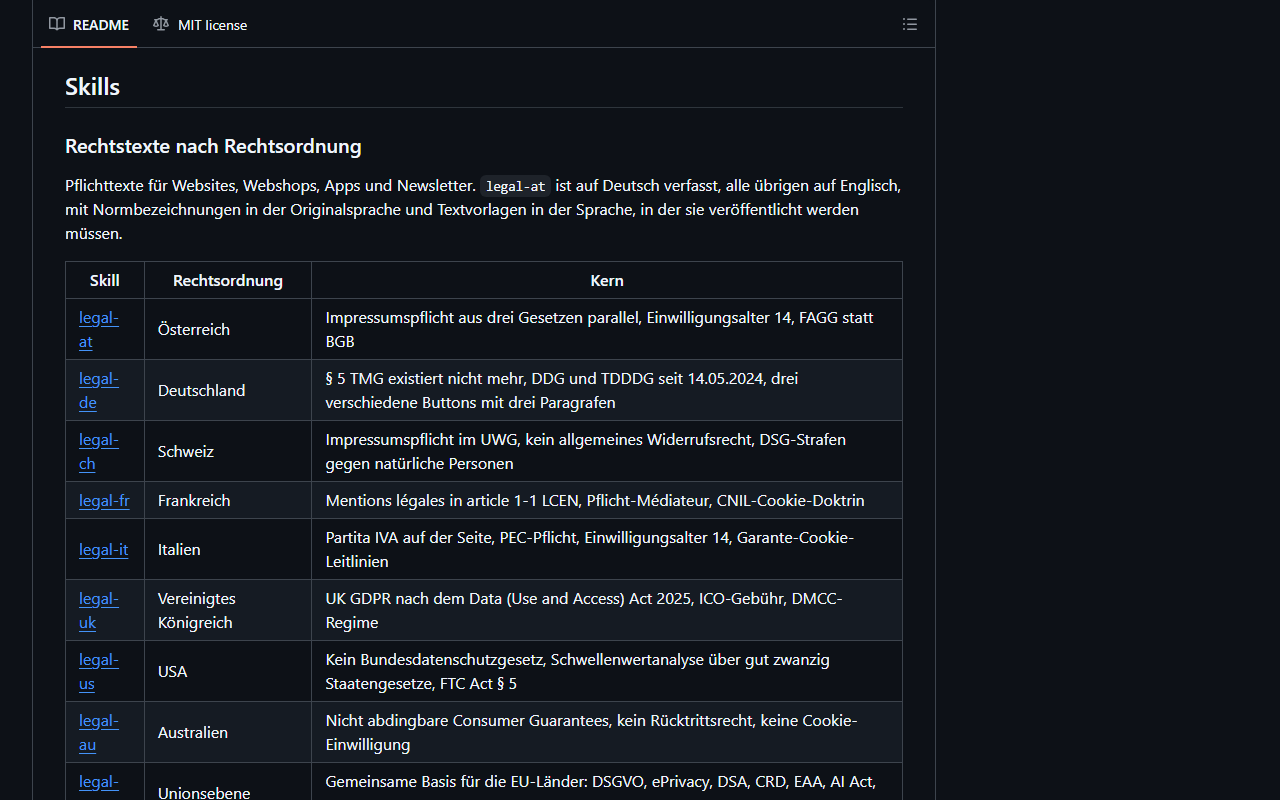
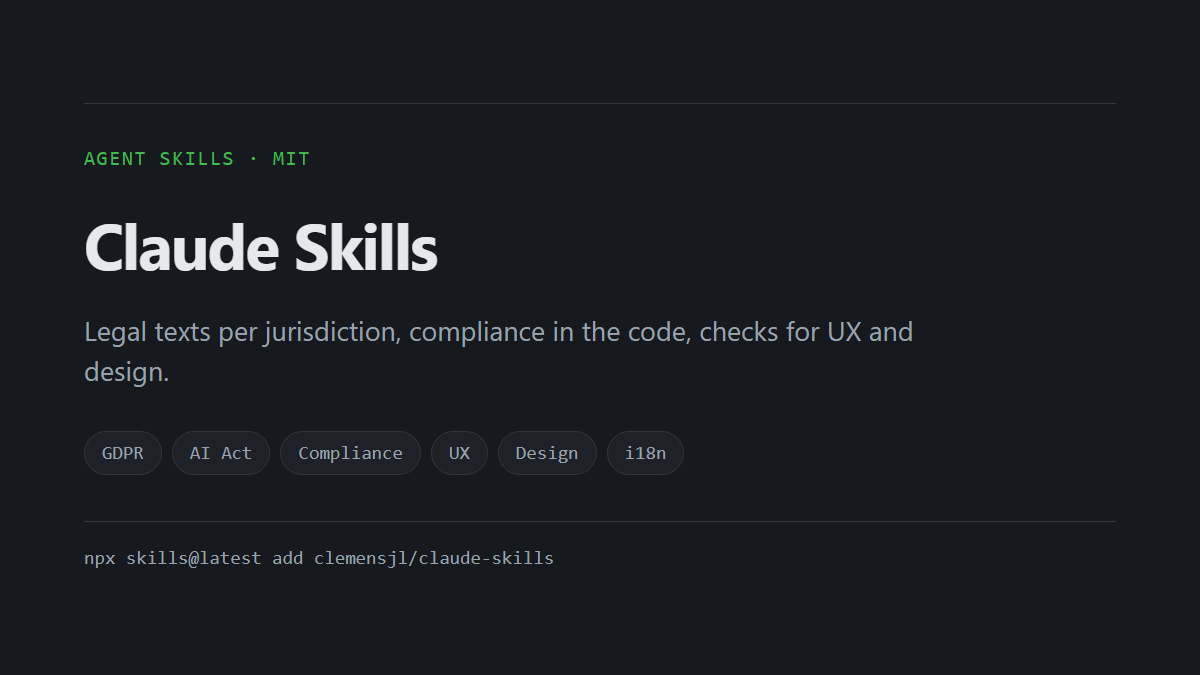
content: Claude Skills nicht mehr nur Rechtstexte
Titel, Zusammenfassung, Text, Cover, Skills- und About-Abschnitt nennen jetzt auch Produktqualität (UX, Design). 19 statt 17 Skills.

diff --git a/src/data/skills.ts b/src/data/skills.ts
@@ -32,8 +32,8 @@ export const withAi: Record<Lang, Capability[]> = {
     },
     {
       title: 'Agent Skills und Anweisungen schreiben',
-      text: 'Wiederverwendbare Skills, die einem Agenten Fachwissen und feste Regeln mitgeben, etwa für Rechtstexte nach österreichischem Recht.',
-      proof: 'Agent Skills für Rechtstexte',
+      text: 'Wiederverwendbare Skills, die einem Agenten Fachwissen und feste Regeln mitgeben, etwa für Rechtstexte je Rechtsordnung oder für UX-Prüfungen vor dem Release.',
+      proof: 'Claude Skills',
     },
     {
       title: 'KI in Produkte einbauen',
@@ -64,8 +64,8 @@ export const withAi: Record<Lang, Capability[]> = {
     },
     {
       title: 'Writing agent skills and instructions',
-      text: 'Reusable skills that give an agent domain knowledge and fixed rules, for example for legal texts under Austrian law.',
-      proof: 'Agent Skills for Legal Texts',
+      text: 'Reusable skills that give an agent domain knowledge and fixed rules, for example for legal texts per jurisdiction or UX checks before a release.',
+      proof: 'Claude Skills',
     },
     {
       title: 'Building AI into products',

diff --git a/src/content/projects/de/claude-skills.md b/src/content/projects/de/claude-skills.md
@@ -1,6 +1,6 @@
 ---
-title: Agent Skills für Rechtstexte
-summary: "17 Agent Skills für Claude Code, Cursor und Codex: Impressum, Datenschutz und Compliance nach Rechtsordnung statt aus US-Vorlagen."
+title: Claude Skills
+summary: "19 Agent Skills für Claude Code, Cursor und Codex: Rechtstexte je Rechtsordnung, Compliance in der Umsetzung und Prüfungen für UX und Design."
 stack: ["Agent Skills", "Markdown"]
 repo: https://github.com/clemensjl/claude-skills
 image: /images/projects/claude-skills.png
@@ -9,10 +9,12 @@ order: 8
 featured: false
 ---
 
-Fragt man ein Sprachmodell nach einem Impressum, bekommt man zuverlässig deutsches oder US-Recht: Paragrafen, die in Österreich nicht gelten, und Formulierungen, die schlicht falsch sind. Diese Skill-Sammlung stellt das um: Für jede Rechtsordnung eigene Regeln, mit den tatsächlich geltenden Paragrafen.
+Agent Skills geben einem Coding-Agenten Fachwissen und feste Regeln mit, die er sonst nicht hat. Die Sammlung deckt zwei Bereiche ab: Recht und Compliance, wo Sprachmodelle zuverlässig deutsches oder US-Recht ausgeben, und Produktqualität, wo sie zuverlässig nach Template aussehen.
 
-Neun `legal-*`-Skills decken Impressum, Datenschutzerklärung und AGB für Österreich, Deutschland, die Schweiz, Frankreich, Italien, Großbritannien, die USA, Australien und die EU-Ebene ab. Dazu kommen vier Skills für die technische Umsetzung (Cookie-Consent, Vendor-Prüfung, Löschfristen, AI-Act) sowie drei zu E-Rechnung, österreichischem Steuerrecht und Lokalisierung. Neu ist ein Skill, der Apps und Websites auf fehlende UX-Details prüft, bevor sie veröffentlicht werden.
+Neun `legal-*`-Skills schreiben Impressum, Datenschutzerklärung und AGB für Österreich, Deutschland, die Schweiz, Frankreich, Italien, Großbritannien, die USA, Australien und die EU-Ebene, mit den Paragrafen, die dort tatsächlich gelten. Vier weitere übernehmen die technische Umsetzung (Cookie-Consent, Vendor-Prüfung, Löschfristen, AI Act), drei kümmern sich um E-Rechnung, österreichisches Steuerrecht und korrekte Lokalisierung von Namen, Adressen und Zahlen.
 
-Die Inhalte sind gegen Primärquellen geprüft, nicht aus dem Modellgedächtnis geschrieben. Wo eine Angabe nicht belegt werden konnte, setzt der Skill einen sichtbaren Marker in den Entwurf, statt zu raten; jeder erzeugte Text trägt den Hinweis, dass er keine Rechtsberatung ersetzt.
+Drei Skills drehen sich um Produktqualität: ein Regelwerk für Bedienbarkeit, Formulare, Barrierefreiheit, Checkout und Kündigung mit Verbotsliste für Dark Patterns, ein Audit auf fehlende UX-Details vor dem Release und ein Skill, der KI-generierte Oberflächen entslopt.
 
-Installation über `npx skills@latest add clemensjl/claude-skills`, MIT-lizenziert.
+Die rechtlichen Inhalte sind gegen Primärquellen geprüft, nicht aus dem Modellgedächtnis geschrieben. Wo eine Angabe nicht belegt werden konnte, setzt der Skill einen sichtbaren Marker, statt zu raten; jeder erzeugte Text trägt den Hinweis, dass er keine Rechtsberatung ersetzt.
+
+Installation über `npx skills@latest add clemensjl/claude-skills`, MIT-lizenziert, `design-unslop` unter CC BY 4.0.

diff --git a/src/content/projects/en/claude-skills.md b/src/content/projects/en/claude-skills.md
@@ -1,6 +1,6 @@
 ---
-title: Agent Skills for Legal Texts
-summary: "17 agent skills for Claude Code, Cursor and Codex: legal notice, privacy policy and compliance written for each jurisdiction instead of copied from US templates."
+title: Claude Skills
+summary: "19 agent skills for Claude Code, Cursor and Codex: legal texts for each jurisdiction, compliance in the code and checks for UX and design."
 stack: ["Agent Skills", "Markdown"]
 repo: https://github.com/clemensjl/claude-skills
 image: /images/projects/claude-skills-en.png
@@ -9,10 +9,12 @@ order: 8
 featured: false
 ---
 
-Ask a language model for a website's legal notice and you will almost always get German or US law: rules that do not apply in Austria and wording that is simply wrong. This skill collection fixes that with separate rules for each jurisdiction, citing the provisions that actually apply.
+Agent skills give a coding agent domain knowledge and fixed rules it would not have otherwise. This collection covers two areas: law and compliance, where language models reliably fall back to German or US law, and product quality, where they reliably produce something that looks like a template.
 
-Nine `legal-*` skills cover the legal notice (the Impressum that many European sites need), privacy policy and terms for Austria, Germany, Switzerland, France, Italy, the UK, the US, Australia and EU-level law. Four more handle the technical side (cookie consent, vendor review, retention periods, the AI Act), and three cover e-invoicing, Austrian tax law and localization. The newest skill checks apps and websites for missing UX details before they go live.
+Nine `legal-*` skills write the legal notice (the Impressum many European sites need), privacy policy and terms for Austria, Germany, Switzerland, France, Italy, the UK, the US, Australia and EU-level law, citing the provisions that actually apply. Four more handle the technical side (cookie consent, vendor review, retention periods, the AI Act), and three cover e-invoicing, Austrian tax law and correct localization of names, addresses and numbers.
 
-The content is checked against primary sources, not written from model memory. Where a claim could not be backed up, the skill leaves a visible marker in the draft instead of guessing. Every generated text includes a note that it does not replace legal advice.
+Three skills are about product quality: a rulebook for usability, forms, accessibility, checkout and cancellation with a list of banned dark patterns, an audit for missing UX details before release, and a skill that de-slops AI-generated interfaces.
 
-Install with `npx skills@latest add clemensjl/claude-skills`. MIT-licensed.
+The legal content is checked against primary sources, not written from model memory. Where a claim could not be backed up, the skill leaves a visible marker instead of guessing. Every generated text includes a note that it does not replace legal advice.
+
+Install with `npx skills@latest add clemensjl/claude-skills`. MIT-licensed, `design-unslop` under CC BY 4.0.
